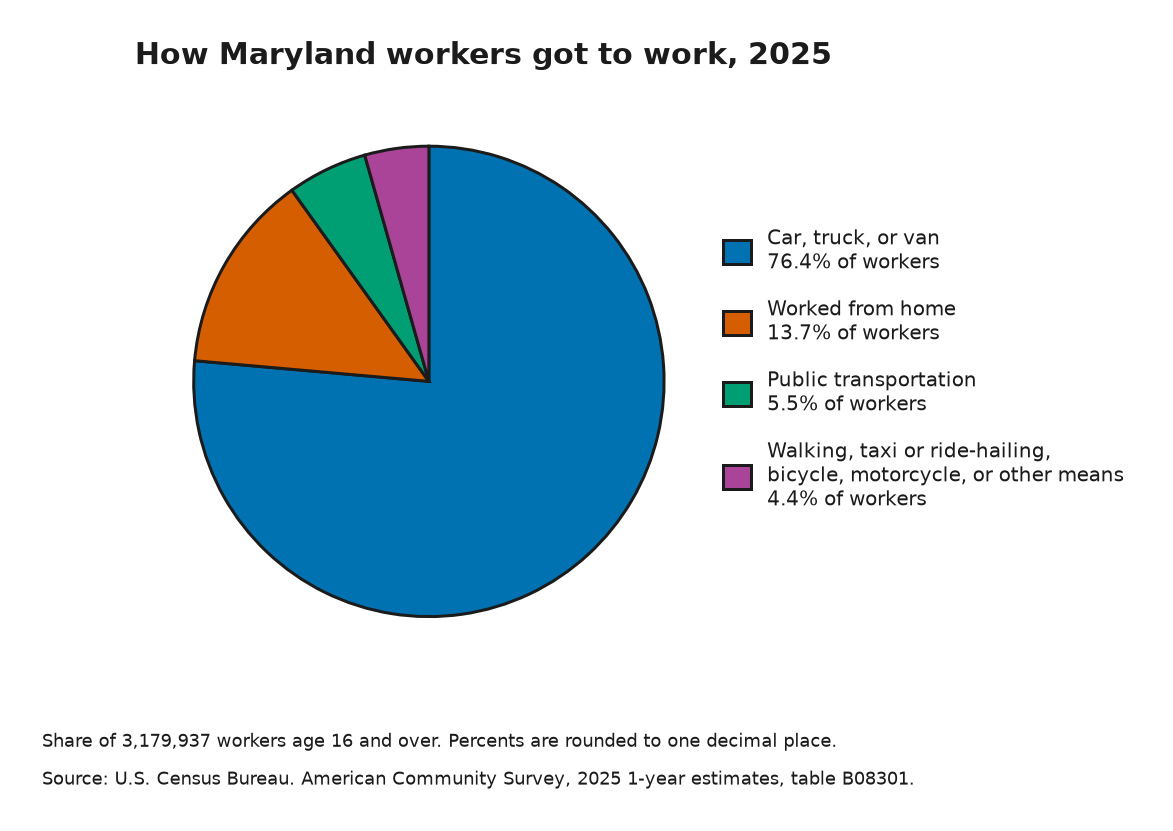
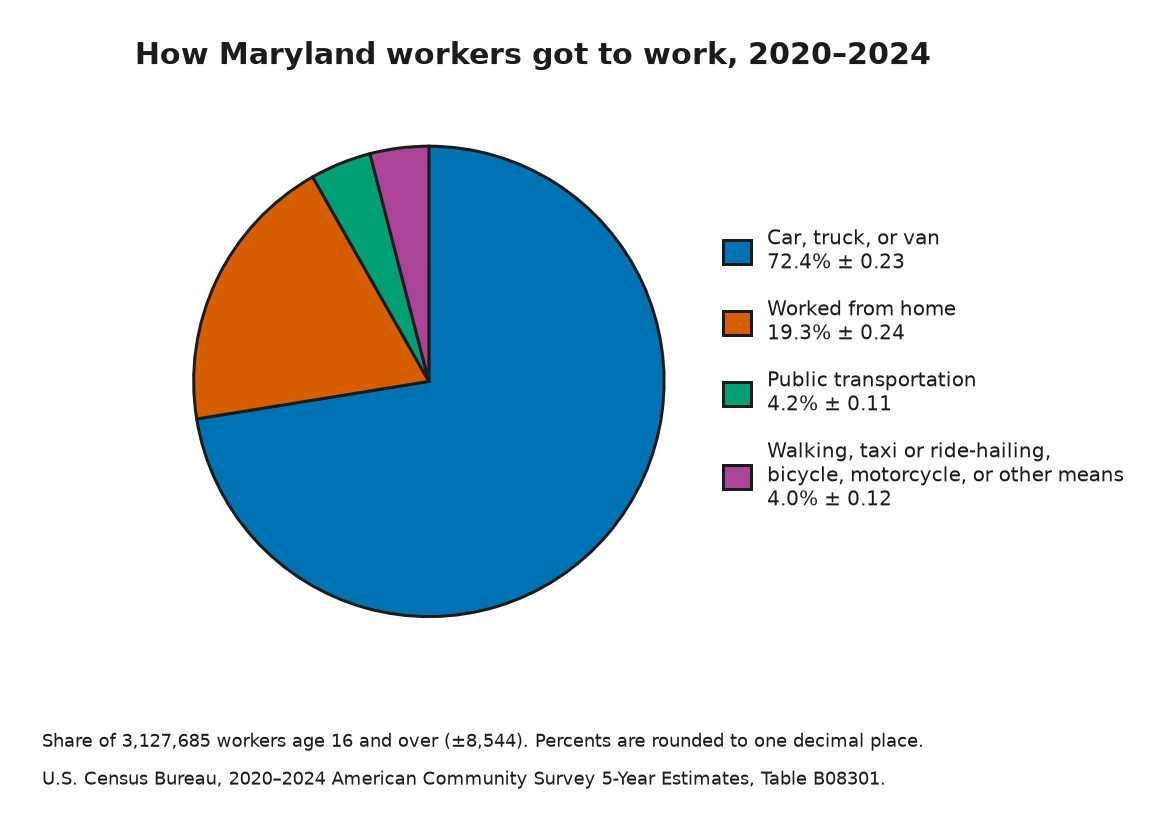
Switch the Maryland commute chart to the 2020-2024 ACS 5-year table.
Use table B08301 from the 2024 ACS 5-year API, and show margins of error for the counts and the percentages.

diff --git a/examples/family_d/make_md_commute_chart.py b/examples/family_d/make_md_commute_chart.py
@@ -1,9 +1,11 @@
 #!/usr/bin/env python3
 """Draw a part-to-whole chart of how Maryland workers got to work.
 
-The numbers are published Census estimates for American Community Survey
-2025 1-year table B08301, Maryland (FIPS 24), workers 16 years and over.
-Published table: https://data.census.gov/table/ACSDT1Y2025.B08301?g=040XX00US24
+The numbers are published Census estimates for the 2020-2024 American
+Community Survey 5-year estimates, table B08301, Maryland (FIPS 24),
+workers 16 years and over.
+Published table: https://data.census.gov/table/ACSDT5Y2024.B08301?g=040XX00US24
+API: https://api.census.gov/data/2024/acs/acs5
 
 To download the live estimates, set a Census Data API key in the environment.
 Do not paste the key into this file:
@@ -13,9 +15,7 @@ Do not paste the key into this file:
 
 If CENSUS_API_KEY is not set, the program uses the saved estimates in
 md_b08301_means_of_transportation.csv. Those saved numbers were copied from
-the published table on 2026-11-08. The live API values for the total,
-car/truck/van, public transportation, and worked from home matched this
-file exactly.
+the published 2024 ACS 5-year table on 2026-11-08.
 """
 
 from __future__ import annotations
@@ -34,7 +34,7 @@ import matplotlib.pyplot as plt
 HERE = Path(__file__).resolve().parent
 CSV_PATH = HERE / "md_b08301_means_of_transportation.csv"
 OUT_PATH = HERE.parents[1] / "assets" / "family-d" / "md-means-of-transportation.png"
-API_URL = "https://api.census.gov/data/2025/acs/acs1"
+API_URL = "https://api.census.gov/data/2024/acs/acs5"
 STATE_FIPS = "24"
 
 # variable, label, chart group. The total is not given a group.
@@ -178,7 +178,7 @@ def load_rows():
         print("No CENSUS_API_KEY set. Using the saved CSV.")
         return read_published_rows(CSV_PATH)
     print(
-        "Using live 2025 ACS 1-year estimates for Maryland "
+        "Using live 2020-2024 ACS 5-year estimates for Maryland "
         "from the Census Data API."
     )
     return fetch_live_rows(api_key)
@@ -187,6 +187,7 @@ def load_rows():
 def build_slices(rows):
     """Turn the published rows into the four slices drawn on the chart."""
     total = None
+    total_margin = None
     grouped = {
         key: {"estimate": 0, "squared_margins": 0}
         for key in GROUP_LABELS
@@ -198,13 +199,14 @@ def build_slices(rows):
         group = row["chart_group"].strip()
         if row["variable"] == "B08301_001":
             total = estimate
+            total_margin = margin
             continue
         if group not in grouped:
             raise SystemExit(f"Unknown chart group '{group}' in {row['variable']}.")
         grouped[group]["estimate"] += estimate
         grouped[group]["squared_margins"] += margin ** 2
 
-    if total is None:
+    if total is None or total_margin is None:
         raise SystemExit("The estimates are missing the published total, B08301_001.")
 
     slices = []
@@ -214,13 +216,21 @@ def build_slices(rows):
         # For the combined slice, this is the Census formula for a sum:
         # the square root of the sum of the squared margins.
         margin = math.sqrt(values["squared_margins"])
+        share = estimate / total
+        # Census proportion margin of error. If the usual term under the
+        # square root is negative, the Census approximation adds the terms.
+        under_root = margin ** 2 - (share ** 2) * (total_margin ** 2)
+        if under_root < 0:
+            under_root = margin ** 2 + (share ** 2) * (total_margin ** 2)
+        percent_margin = 100.0 * math.sqrt(under_root) / total
         slices.append(
             {
                 "key": key,
                 "label": GROUP_LABELS[key],
                 "estimate": estimate,
                 "margin": margin,
-                "percent": 100.0 * estimate / total,
+                "percent": 100.0 * share,
+                "percent_margin": percent_margin,
                 "color": COLORS[key],
             }
         )
@@ -230,10 +240,10 @@ def build_slices(rows):
         raise SystemExit(
             f"The slices add to {added:,}, but the published total is {total:,}."
         )
-    return total, slices
+    return total, total_margin, slices
 
 
-def draw_chart(total, slices, out_path: Path):
+def draw_chart(total, total_margin, slices, out_path: Path):
     """Save a pie chart with labels in a legend, not color alone."""
     plt.rcParams["font.family"] = "DejaVu Sans"
 
@@ -250,7 +260,7 @@ def draw_chart(total, slices, out_path: Path):
     )
 
     legend_labels = [
-        f"{LEGEND_LABELS[item['key']]}\n{item['percent']:.1f}% of workers"
+        f"{LEGEND_LABELS[item['key']]}\n{item['percent']:.1f}% ± {item['percent_margin']:.2f}"
         for item in slices
     ]
     legend = ax.legend(
@@ -269,7 +279,7 @@ def draw_chart(total, slices, out_path: Path):
         text.set_color("#1b1b1b")
 
     ax.set_title(
-        "How Maryland workers got to work, 2025",
+        "How Maryland workers got to work, 2020–2024",
         loc="left",
         fontsize=18,
         color="#1b1b1b",
@@ -280,7 +290,8 @@ def draw_chart(total, slices, out_path: Path):
     fig.text(
         0.01,
         0.075,
-        f"Share of {total:,} workers age 16 and over. Percents are rounded to one decimal place.",
+        f"Share of {total:,} workers age 16 and over (±{total_margin:,.0f}). "
+        "Percents are rounded to one decimal place.",
         fontsize=11,
         color="#1b1b1b",
         ha="left",
@@ -288,7 +299,7 @@ def draw_chart(total, slices, out_path: Path):
     fig.text(
         0.01,
         0.03,
-        "Source: U.S. Census Bureau. American Community Survey, 2025 1-year estimates, table B08301.",
+        "U.S. Census Bureau, 2020–2024 American Community Survey 5-Year Estimates, Table B08301.",
         fontsize=11,
         color="#1b1b1b",
         ha="left",
@@ -301,13 +312,14 @@ def draw_chart(total, slices, out_path: Path):
 
 
 def main():
-    total, slices = build_slices(load_rows())
-    draw_chart(total, slices, OUT_PATH)
-    print(f"Published total: {total:,} workers")
+    total, total_margin, slices = build_slices(load_rows())
+    draw_chart(total, total_margin, slices, OUT_PATH)
+    print(f"Published total: {total:,} workers (±{total_margin:,.0f})")
     for item in slices:
         print(
             f"{item['label']}: {item['estimate']:,} "
-            f"(±{item['margin']:,.0f}), {item['percent']:.1f}%"
+            f"(±{item['margin']:,.0f}), {item['percent']:.1f}% "
+            f"(±{item['percent_margin']:.2f})"
         )
     print(f"Saved {OUT_PATH}")
 

diff --git a/visualization_type/PieChart.md b/visualization_type/PieChart.md
@@ -107,23 +107,24 @@ In addition to the guidance provided in this section, relevant guidance can also
 
 This example is a part-to-whole chart. It uses four slices, because this page recommends staying near three or four. The smallest published ways of getting to work are added together in the last slice. The table under the chart lists each of those published numbers on its own.
 
-The picture description states the result. The caption names the chart. The source line starts with "Source: U.S. Census Bureau." The same numbers are in a table that opens from the keyboard.
+The picture description states the result. The caption names the chart. The source line is “U.S. Census Bureau, 2020–2024 American Community Survey 5-Year Estimates, Table B08301.” The same numbers, including margins of error for the counts and the percents, are in a table that opens from the keyboard.
 
 {% include accessible-figure.html
    id="md-commute"
    src="assets/family-d/md-means-of-transportation.png"
-   alt="Pie chart of how workers in Maryland got to work in 2025. 76.4 percent used a car, truck, or van. 13.7 percent worked from home. 5.5 percent used public transportation. 4.4 percent walked, biked, used a taxi or ride-hailing service, rode a motorcycle, or used another means."
-   caption="How Maryland workers got to work in 2025. Each slice is a share of workers age 16 and over."
-   source_detail="American Community Survey, 2025 1-year estimates, table B08301, Maryland. Workers 16 years and over."
-   source_url="https://data.census.gov/table/ACSDT1Y2025.B08301?g=040XX00US24"
+   alt="Pie chart of how workers in Maryland got to work in 2020 to 2024. 72.4 percent used a car, truck, or van. 19.3 percent worked from home. 4.2 percent used public transportation. 4.0 percent walked, biked, used a taxi or ride-hailing service, rode a motorcycle, or used another means."
+   caption="How Maryland workers got to work, 2020–2024. Each slice is a share of workers age 16 and over."
+   source="U.S. Census Bureau, 2020–2024 American Community Survey 5-Year Estimates, Table B08301"
+   source_detail="Maryland. Workers 16 years and over."
+   source_url="https://data.census.gov/table/ACSDT5Y2024.B08301?g=040XX00US24"
    summary="Show the data table"
-   table_caption="Means of transportation to work, Maryland, 2025"
-   headers="Means of transportation|Workers|Margin of error|Percent of workers"
-   rows="Car, truck, or van|2,429,541|±23,333|76.4%||Worked from home|435,692|±12,713|13.7%||Public transportation|174,860|±10,198|5.5%||Walking, taxi or ride-hailing, bicycle, motorcycle, or other means|139,844|±9,931 (calculated)|4.4%||All workers|3,179,937|±21,959|100%"
-   note="The four modes add up to all workers. The last mode is the sum of five published estimates, which are listed in the next table. Its margin of error is calculated from those five published margins with the Census Bureau formula for a sum: the square root of the sum of the squared margins. Percents are rounded to one decimal place and add to 100.0. Estimates were saved from data.census.gov on November 8, 2026."
+   table_caption="Means of transportation to work, Maryland, 2020–2024"
+   headers="Means of transportation|Workers|Margin of error|Percent of workers|Margin of error for the percent"
+   rows="Car, truck, or van|2,265,958|±9,545|72.4%|±0.23||Worked from home|604,400|±7,547|19.3%|±0.24||Public transportation|131,271|±3,568|4.2%|±0.11||Walking, taxi or ride-hailing, bicycle, motorcycle, or other means|126,056|±3,650 (calculated)|4.0%|±0.12 (calculated)||All workers|3,127,685|±8,544|100%|"
+   note="The four modes add up to all workers. The last mode is the sum of five published estimates, listed in the next table. Its count margin of error is the Census Bureau formula for a sum: the square root of the sum of the squared margins. The percent margin of error is the Census Bureau formula for a proportion. Percents are rounded to one decimal place. Estimates were checked against the published 2024 ACS 5-year table on November 8, 2026."
    table_caption_2="Published estimates added together in the last slice"
-   headers_2="Means of transportation|Workers|Margin of error|Percent of workers"
-   rows_2="Walked|63,419|±5,896|2.0%||Taxi or ride-hailing services|32,438|±6,036|1.0%||Other means|31,032|±4,358|1.0%||Bicycle|8,938|±2,054|0.3%||Motorcycle|4,017|±2,056|0.1%"
+   headers_2="Means of transportation|Workers|Margin of error|Percent of workers|Margin of error for the percent"
+   rows_2="Walked|63,417|±2,622|2.0%|±0.08||Taxi or ride-hailing services|14,954|±1,317|0.5%|±0.04||Other means|37,130|±1,929|1.2%|±0.06||Bicycle|8,406|±910|0.3%|±0.03||Motorcycle|2,149|±408|0.1%|±0.01"
 %}
 
 ### Ownership share of all businesses by sex, 2021
@@ -575,14 +576,14 @@ Take note of the following characteristics of these pie charts:
 
 <a href="{{ '/examples/family_d/make_md_commute_chart.py' | relative_url }}">Download the Python script</a>. It saves the Maryland commute chart. It needs Python 3 and the matplotlib package.
 
-To download the live 2025 estimates, request a free Census Data API key at https://api.census.gov/data/key_signup.html and set it in your terminal. Leave the key out of the program, this page, and the saved table:
+To download the live 2020–2024 estimates, request a free Census Data API key at https://api.census.gov/data/key_signup.html and set it in your terminal. Leave the key out of the program, this page, and the saved table:
 
 ```
 export CENSUS_API_KEY=your_key_here
 python3 examples/family_d/make_md_commute_chart.py
 ```
 
-If `CENSUS_API_KEY` is not set, the program uses the saved file `examples/family_d/md_b08301_means_of_transportation.csv`. Those numbers were copied from the published table on November 8, 2026. The live 2025 values for Maryland match that file: 3,179,937 workers in total, 2,429,541 by car, truck, or van, 174,860 by public transportation, and 435,692 who worked from home.
+If `CENSUS_API_KEY` is not set, the program uses the saved file `examples/family_d/md_b08301_means_of_transportation.csv`. Those numbers are the published 2020–2024 ACS 5-year estimates for Maryland: 3,127,685 workers in total, 2,265,958 by car, truck, or van, 131,271 by public transportation, and 604,400 who worked from home.
 
 <details class="code-details">
 <summary><span class="code-details-icon" aria-hidden="true"></span>Show Python code for the commute chart</summary>
@@ -590,9 +591,11 @@ If `CENSUS_API_KEY` is not set, the program uses the saved file `examples/family
 #!/usr/bin/env python3
 """Draw a part-to-whole chart of how Maryland workers got to work.
 
-The numbers are published Census estimates for American Community Survey
-2025 1-year table B08301, Maryland (FIPS 24), workers 16 years and over.
-Published table: https://data.census.gov/table/ACSDT1Y2025.B08301?g=040XX00US24
+The numbers are published Census estimates for the 2020-2024 American
+Community Survey 5-year estimates, table B08301, Maryland (FIPS 24),
+workers 16 years and over.
+Published table: https://data.census.gov/table/ACSDT5Y2024.B08301?g=040XX00US24
+API: https://api.census.gov/data/2024/acs/acs5
 
 To download the live estimates, set a Census Data API key in the environment.
 Do not paste the key into this file:
@@ -602,9 +605,7 @@ Do not paste the key into this file:
 
 If CENSUS_API_KEY is not set, the program uses the saved estimates in
 md_b08301_means_of_transportation.csv. Those saved numbers were copied from
-the published table on 2026-11-08. The live API values for the total,
-car/truck/van, public transportation, and worked from home matched this
-file exactly.
+the published 2024 ACS 5-year table on 2026-11-08.
 """
 
 from __future__ import annotations
@@ -623,7 +624,7 @@ import matplotlib.pyplot as plt
 HERE = Path(__file__).resolve().parent
 CSV_PATH = HERE / "md_b08301_means_of_transportation.csv"
 OUT_PATH = HERE.parents[1] / "assets" / "family-d" / "md-means-of-transportation.png"
-API_URL = "https://api.census.gov/data/2025/acs/acs1"
+API_URL = "https://api.census.gov/data/2024/acs/acs5"
 STATE_FIPS = "24"
 
 # variable, label, chart group. The total is not given a group.
@@ -767,7 +768,7 @@ def load_rows():
         print("No CENSUS_API_KEY set. Using the saved CSV.")
         return read_published_rows(CSV_PATH)
     print(
-        "Using live 2025 ACS 1-year estimates for Maryland "
+        "Using live 2020-2024 ACS 5-year estimates for Maryland "
         "from the Census Data API."
     )
     return fetch_live_rows(api_key)
@@ -776,6 +777,7 @@ def load_rows():
 def build_slices(rows):
     """Turn the published rows into the four slices drawn on the chart."""
     total = None
+    total_margin = None
     grouped = {
         key: {"estimate": 0, "squared_margins": 0}
         for key in GROUP_LABELS
@@ -787,13 +789,14 @@ def build_slices(rows):
         group = row["chart_group"].strip()
         if row["variable"] == "B08301_001":
             total = estimate
+            total_margin = margin
             continue
         if group not in grouped:
             raise SystemExit(f"Unknown chart group '{group}' in {row['variable']}.")
         grouped[group]["estimate"] += estimate
         grouped[group]["squared_margins"] += margin ** 2
 
-    if total is None:
+    if total is None or total_margin is None:
         raise SystemExit("The estimates are missing the published total, B08301_001.")
 
     slices = []
@@ -803,13 +806,21 @@ def build_slices(rows):
         # For the combined slice, this is the Census formula for a sum:
         # the square root of the sum of the squared margins.
         margin = math.sqrt(values["squared_margins"])
+        share = estimate / total
+        # Census proportion margin of error. If the usual term under the
+        # square root is negative, the Census approximation adds the terms.
+        under_root = margin ** 2 - (share ** 2) * (total_margin ** 2)
+        if under_root < 0:
+            under_root = margin ** 2 + (share ** 2) * (total_margin ** 2)
+        percent_margin = 100.0 * math.sqrt(under_root) / total
         slices.append(
             {
                 "key": key,
                 "label": GROUP_LABELS[key],
                 "estimate": estimate,
                 "margin": margin,
-                "percent": 100.0 * estimate / total,
+                "percent": 100.0 * share,
+                "percent_margin": percent_margin,
                 "color": COLORS[key],
             }
         )
@@ -819,10 +830,10 @@ def build_slices(rows):
         raise SystemExit(
             f"The slices add to {added:,}, but the published total is {total:,}."
         )
-    return total, slices
+    return total, total_margin, slices
 
 
-def draw_chart(total, slices, out_path: Path):
+def draw_chart(total, total_margin, slices, out_path: Path):
     """Save a pie chart with labels in a legend, not color alone."""
     plt.rcParams["font.family"] = "DejaVu Sans"
 
@@ -839,7 +850,7 @@ def draw_chart(total, slices, out_path: Path):
     )
 
     legend_labels = [
-        f"{LEGEND_LABELS[item['key']]}\n{item['percent']:.1f}% of workers"
+        f"{LEGEND_LABELS[item['key']]}\n{item['percent']:.1f}% ± {item['percent_margin']:.2f}"
         for item in slices
     ]
     legend = ax.legend(
@@ -858,7 +869,7 @@ def draw_chart(total, slices, out_path: Path):
         text.set_color("#1b1b1b")
 
     ax.set_title(
-        "How Maryland workers got to work, 2025",
+        "How Maryland workers got to work, 2020–2024",
         loc="left",
         fontsize=18,
         color="#1b1b1b",
@@ -869,7 +880,8 @@ def draw_chart(total, slices, out_path: Path):
     fig.text(
         0.01,
         0.075,
-        f"Share of {total:,} workers age 16 and over. Percents are rounded to one decimal place.",
+        f"Share of {total:,} workers age 16 and over (±{total_margin:,.0f}). "
+        "Percents are rounded to one decimal place.",
         fontsize=11,
         color="#1b1b1b",
         ha="left",
@@ -877,7 +889,7 @@ def draw_chart(total, slices, out_path: Path):
     fig.text(
         0.01,
         0.03,
-        "Source: U.S. Census Bureau. American Community Survey, 2025 1-year estimates, table B08301.",
+        "U.S. Census Bureau, 2020–2024 American Community Survey 5-Year Estimates, Table B08301.",
         fontsize=11,
         color="#1b1b1b",
         ha="left",
@@ -890,13 +902,14 @@ def draw_chart(total, slices, out_path: Path):
 
 
 def main():
-    total, slices = build_slices(load_rows())
-    draw_chart(total, slices, OUT_PATH)
-    print(f"Published total: {total:,} workers")
+    total, total_margin, slices = build_slices(load_rows())
+    draw_chart(total, total_margin, slices, OUT_PATH)
+    print(f"Published total: {total:,} workers (±{total_margin:,.0f})")
     for item in slices:
         print(
             f"{item['label']}: {item['estimate']:,} "
-            f"(±{item['margin']:,.0f}), {item['percent']:.1f}%"
+            f"(±{item['margin']:,.0f}), {item['percent']:.1f}% "
+            f"(±{item['percent_margin']:.2f})"
         )
     print(f"Saved {OUT_PATH}")
 
